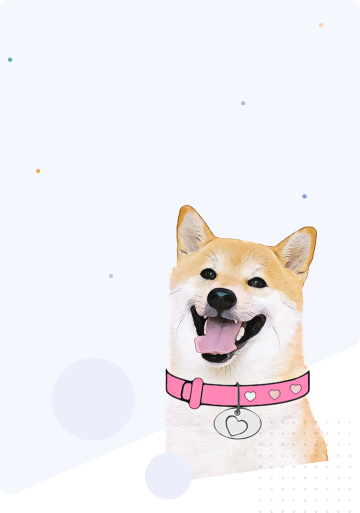
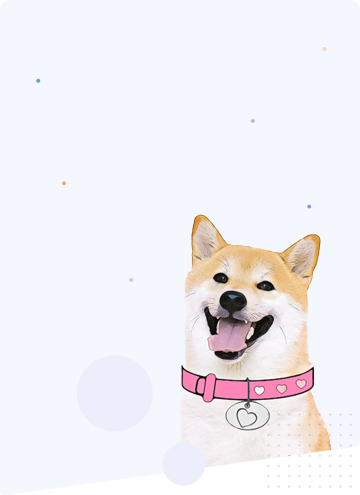
fix background image responsiveness

diff --git a/frontend-landing/src/assets/styles/app/section/_home.scss b/frontend-landing/src/assets/styles/app/section/_home.scss
@@ -1,110 +1,112 @@
 #home {
-	margin-bottom: 21px;
+  margin-bottom: 21px;
 
-	.home-container {
-		position: relative;
-		padding-top: 32px;
-		padding-left: 19px;
+  .home-container {
+    position: relative;
+    padding-top: 32px;
+    padding-left: 19px;
 
-		background-image: url('/assets/images/slider-mobile.png');
-		background-repeat: no-repeat;
-		background-size: cover;
-		background-position: center right;
-		border-radius: 10px;
-	}
+    background-image: url("/assets/images/slider-mobile.png");
+    background-repeat: no-repeat;
+    background-size: cover;
+    background-position: bottom right;
+    border-radius: 10px;
+  }
 
-	.panel-text {
-		max-width: 300px;
-	}
+  .panel-text {
+    max-width: 300px;
+  }
 
-	.section-label {
-		margin-bottom: 21px;
-	}
+  .section-label {
+    margin-bottom: 21px;
+  }
 
-	.section-title {
-		margin-bottom: 20px;
+  .section-title {
+    margin-bottom: 20px;
 
-		font-weight: 800;
-	}
+    font-weight: 800;
+  }
 
-	.section-description {
-		font-family: Lato;
-		font-style: normal;
-		font-weight: normal;
-		font-size: 24px;
-		line-height: 26px;
+  .section-description {
+    font-family: Lato;
+    font-style: normal;
+    font-weight: normal;
+    font-size: 24px;
+    line-height: 26px;
 
-		color: var(--bs-normal);
-	}
+    color: var(--bs-normal);
+  }
 
-	@each $breakpoint in map-keys($grid-breakpoints) {
-		@if map-get($header-height, $breakpoint) {
-			@include media-breakpoint-up($breakpoint) {
-				height: subtract(100vh, map-get($header-height, $breakpoint));
-			}
-		}
-	}
+  @each $breakpoint in map-keys($grid-breakpoints) {
+    @if map-get($header-height, $breakpoint) {
+      @include media-breakpoint-up($breakpoint) {
+        height: subtract(100vh, map-get($header-height, $breakpoint));
+      }
+    }
+  }
 
-	@include media-breakpoint-up(md) {
-		margin-bottom: 34px;
+  @include media-breakpoint-up(sm) {
+    .home-container {
+      background-image: url("/assets/images/slider-tablet.png");
+    }
+  }
 
-		.home-container {
-			padding-top: 43px;
-			padding-left: 36px;
-		}
+  @include media-breakpoint-up(md) {
+    margin-bottom: 34px;
 
-		.home-container {
-			background-image: url('/assets/images/slider-tablet.png');
-		}
+    .home-container {
+      padding-top: 43px;
+      padding-left: 36px;
+    }
 
-		.panel-text {
-			max-width: 400px;
-		}
+    .panel-text {
+      max-width: 400px;
+    }
 
-		.section-label {
-			margin-bottom: 13px;
-		}
+    .section-label {
+      margin-bottom: 13px;
+    }
 
-		.section-title {
-			margin-bottom: 13px;
+    .section-title {
+      margin-bottom: 13px;
 
-			font-size: 48px;
-			line-height: 58px;
-		}
+      font-size: 48px;
+      line-height: 58px;
+    }
 
-		.section-description {
-			font-size: 24px;
-			line-height: 26px;
-		}
-	}
+    .section-description {
+      font-size: 24px;
+      line-height: 26px;
+    }
+  }
 
-	@include media-breakpoint-up(lg) {
-		margin-bottom: 1px;
+  @include media-breakpoint-up(lg) {
+    margin-bottom: 1px;
 
-		.home-container {
-			background-image: url('/assets/images/slider-desktop.png');
-			background-position: center right 30%;
-			border-radius: 30px;
-		}
+    .home-container {
+      background-image: url("/assets/images/slider-desktop.png");
+      background-position: bottom right 30%;
+      border-radius: 30px;
+    }
 
-		.panel-text {
-			max-width: 692px;
-		}
+    .panel-text {
+      max-width: 692px;
+    }
 
-		.section-label {
-			margin-bottom: 35px;
-		}
+    .section-label {
+      margin-bottom: 35px;
+    }
 
-		.section-title {
-			margin-bottom: 36px;
+    .section-title {
+      margin-bottom: 36px;
 
-			font-size: 60px;
-			line-height: 72px;
-		}
+      font-size: 60px;
+      line-height: 72px;
+    }
 
-		.section-description {
-			font-size: 36px;
-			line-height: 26px;
-		}
-	}
+    .section-description {
+      font-size: 36px;
+      line-height: 26px;
+    }
+  }
 }
